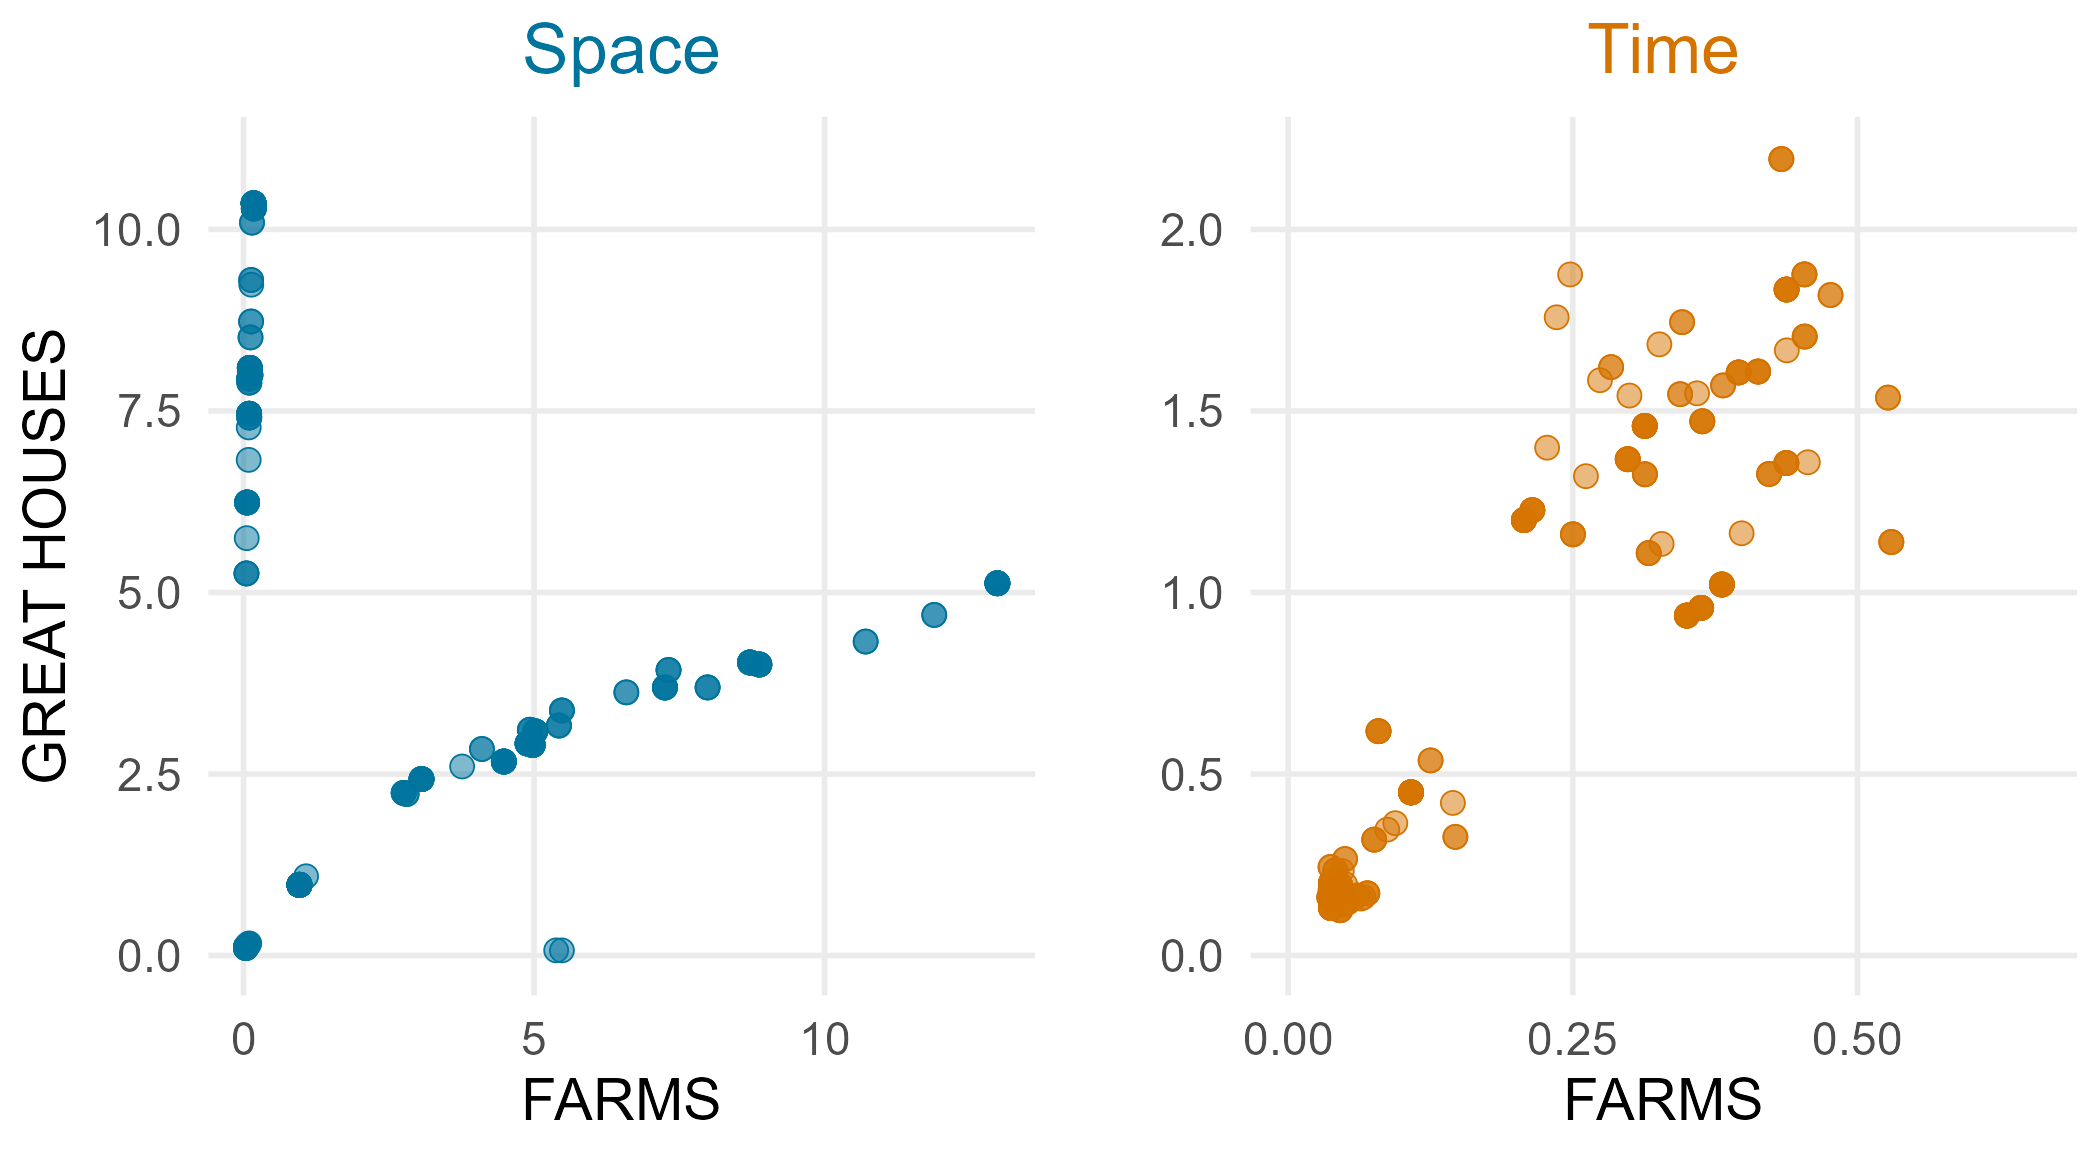
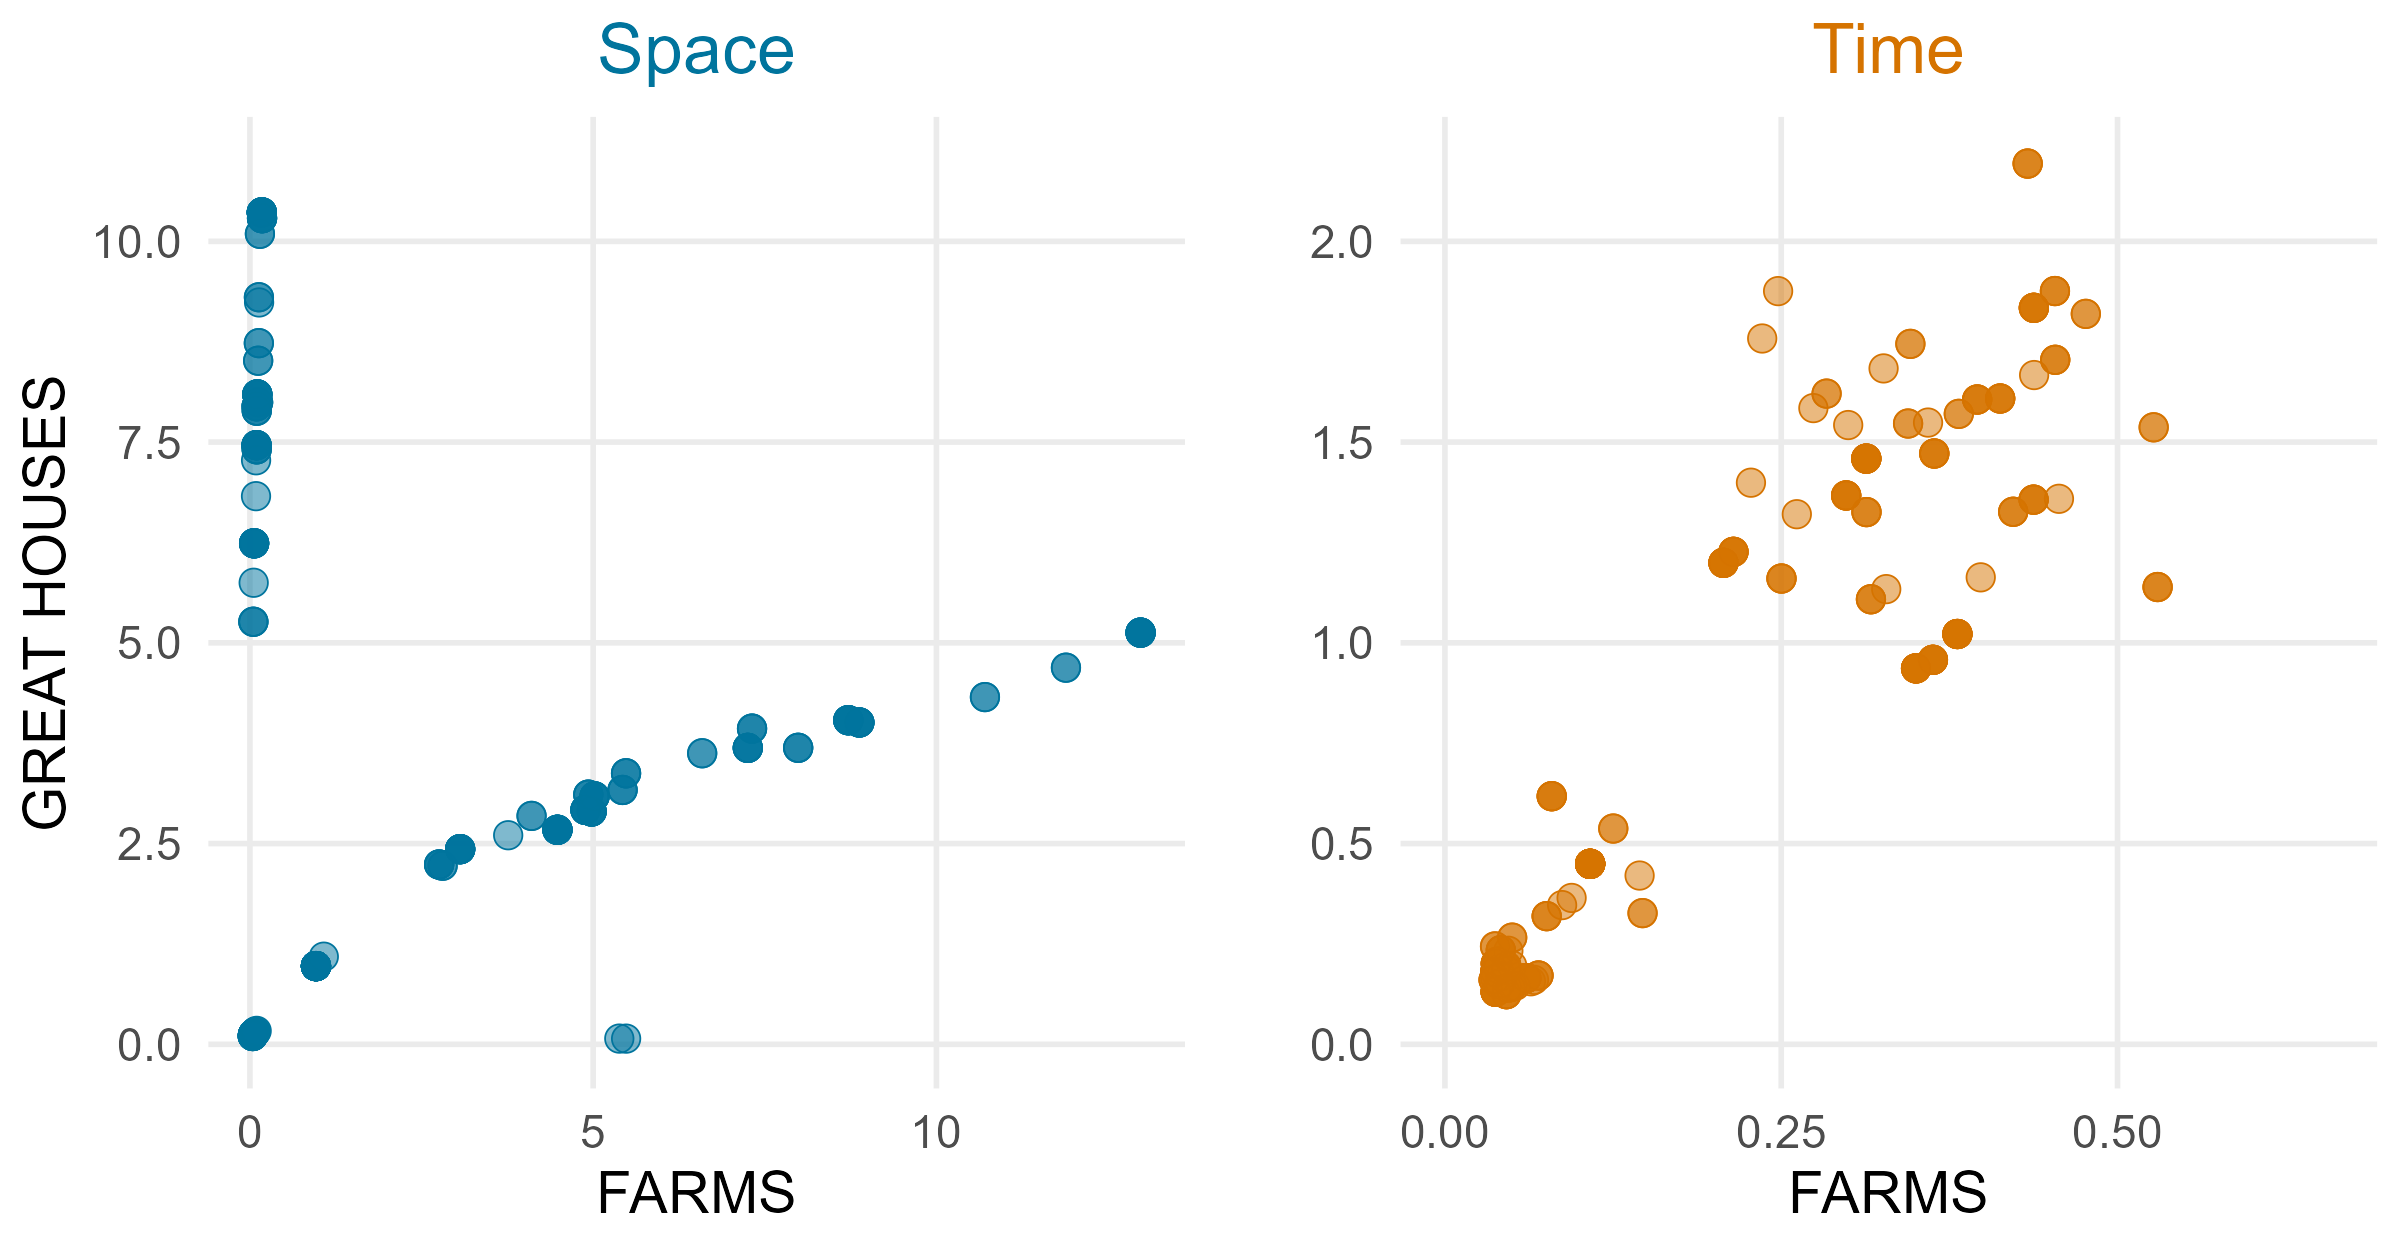
friday nite, y'all

diff --git a/index.html b/index.html
@@ -484,7 +484,7 @@ More people means 🤼competition for jobs, 📈 higher rents, 🍷 expensive
 <h2>Covariance of spatio-temporal weights</h2>
 <div class="quarto-figure quarto-figure-center" style="margin-top:1em;">
 <figure>
-<p><img data-src="figures/covariance-of-weights.png" class="img0" style="width:80.0%"></p>
+<p><img data-src="figures/covariance-of-weights.png" class="img0" style="width:73.0%"></p>
 </figure>
 </div>
 </section>
